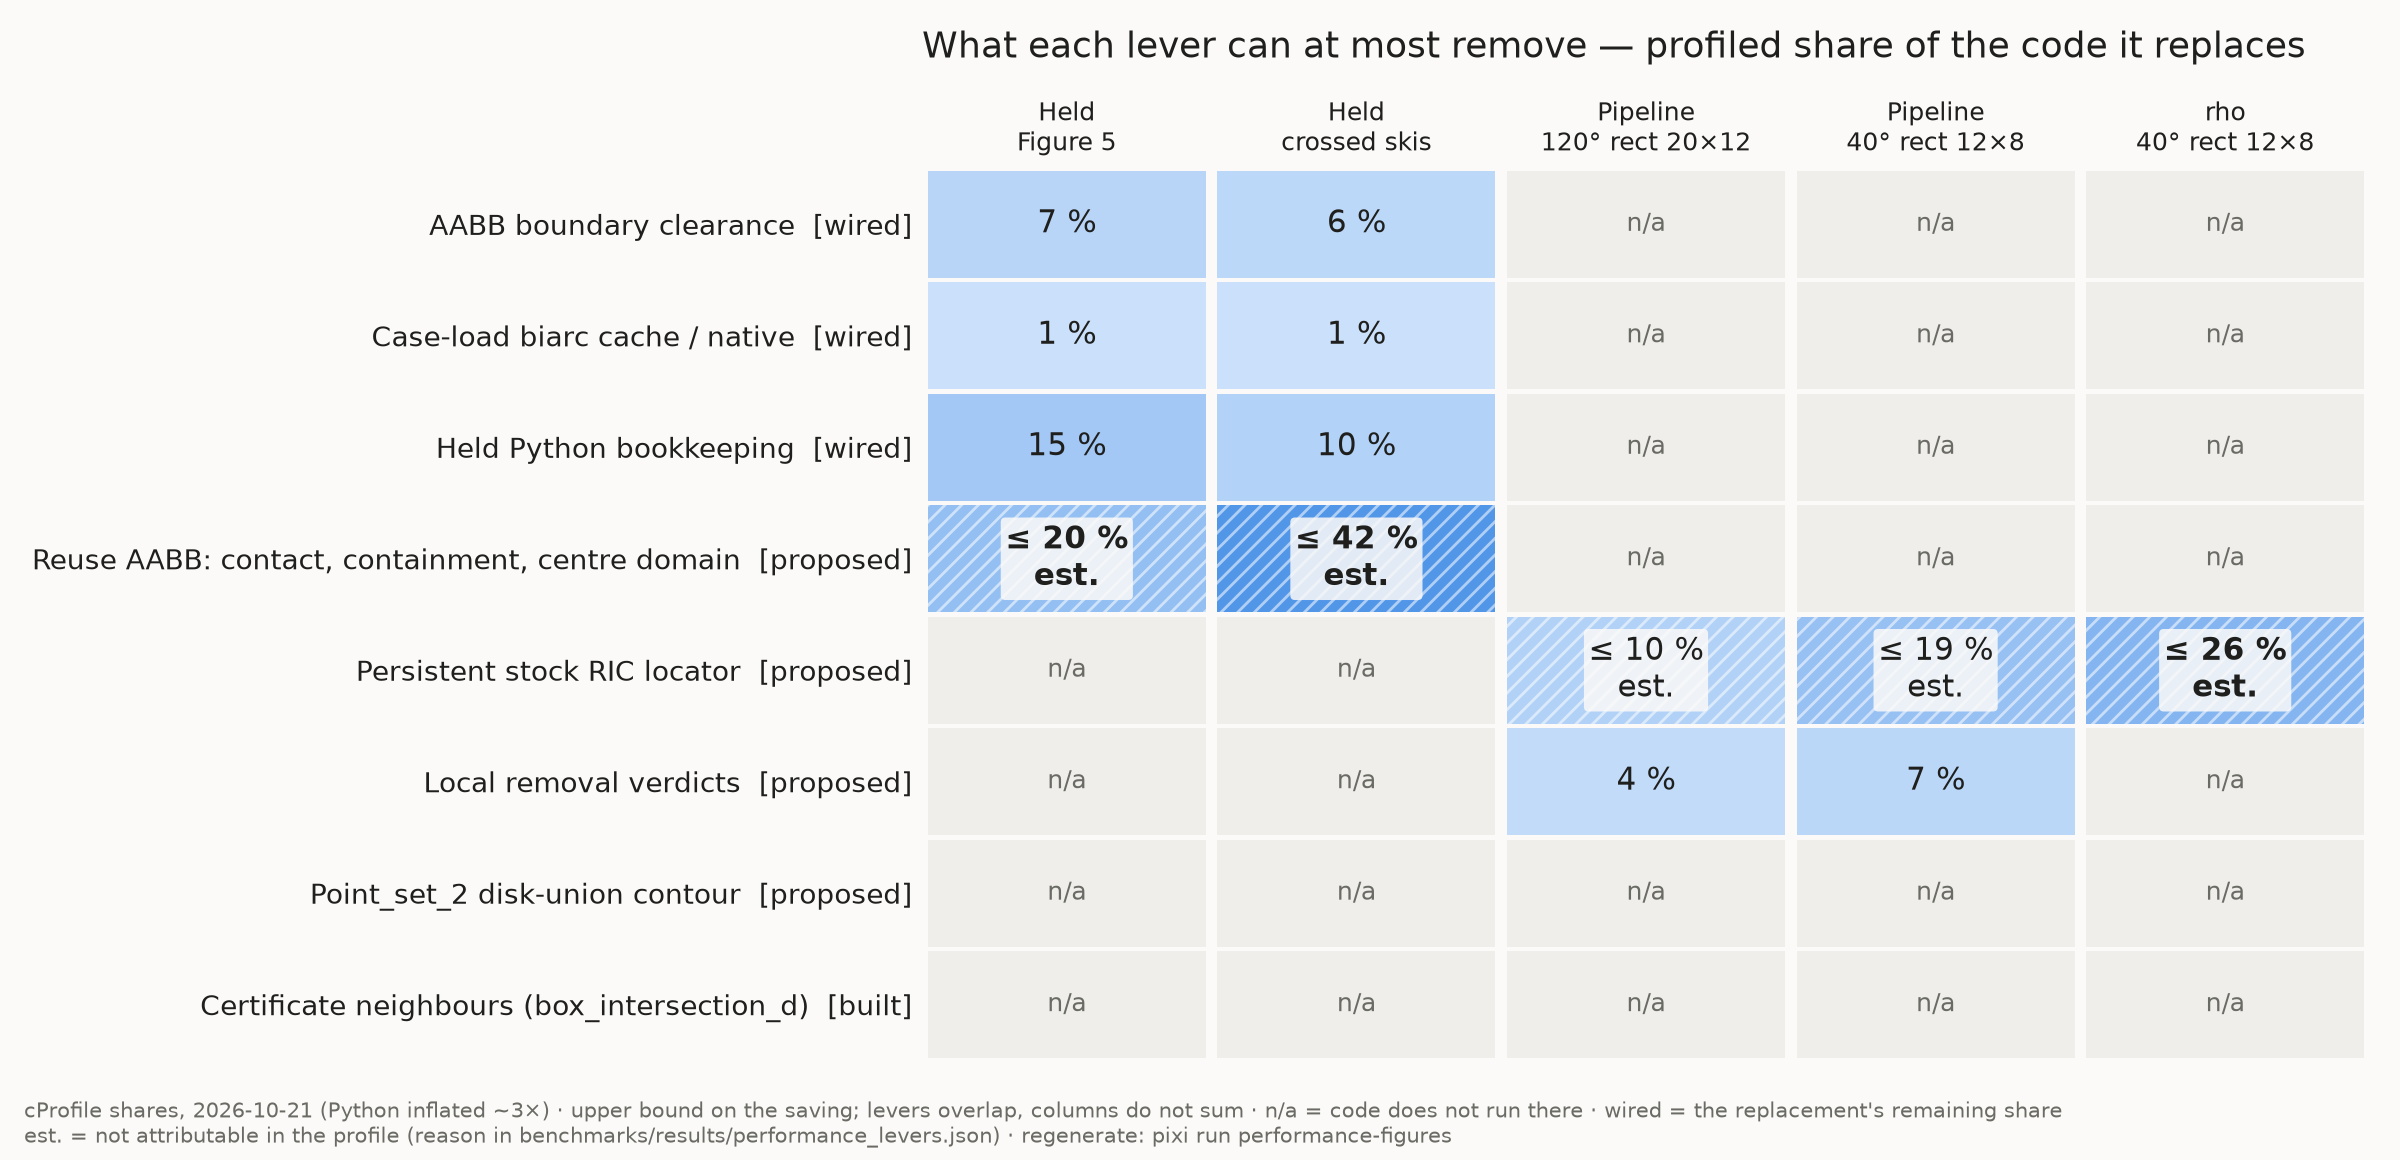
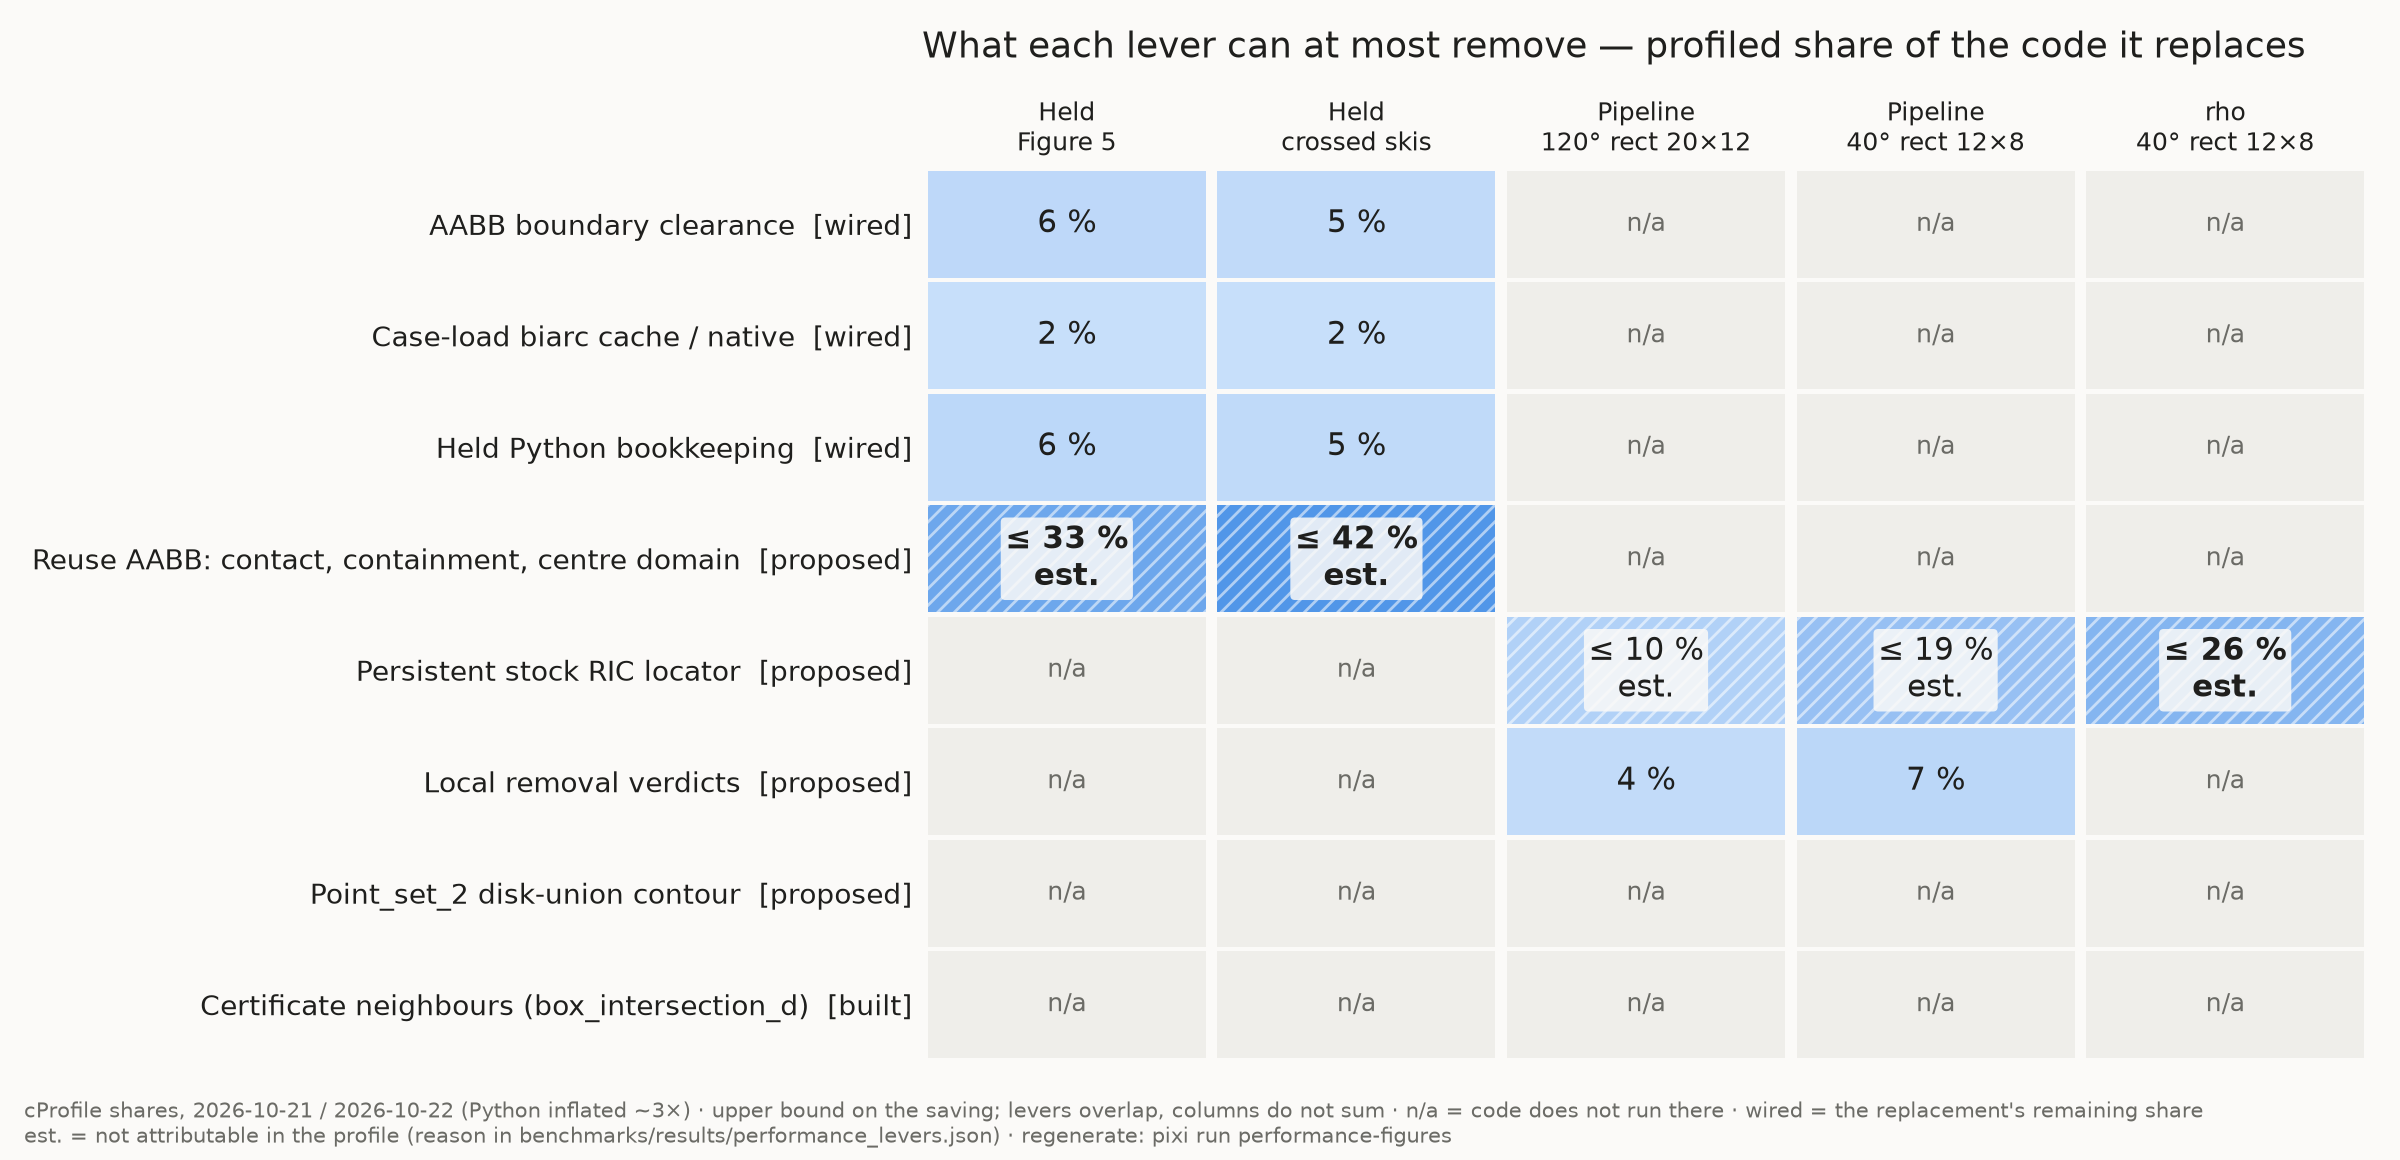
perf: regenerated performance records and heatmaps

Changed region(s): [[0.125, 0.931, 0.9062, 0.9621], [0.375, 0.3414, 0.5, 0.5276], [0.5312, 0.3724, 0.5938, 0.4034]]

diff --git a/benchmarks/results/performance_fig5_callpaths.md b/benchmarks/results/performance_fig5_callpaths.md
@@ -1,13 +1,12 @@
 <!-- Generated by tools.performance_callpaths from build/performance/held_figure5.prof. Do not edit; run `pixi run performance-figures`. -->
 
-cProfile of `benchmarks.held_toolpath_benchmark.figure5_refined`, one cold run in a fresh process, 2026-10-21, commit `e05674d3e4e6` (working tree with uncommitted changes); total profiled time 11.7 s.
+cProfile of `benchmarks.held_toolpath_benchmark.figure5_refined`, one cold run in a fresh process, 2026-10-22, commit `fa28023fd488` (working tree with uncommitted changes); total profiled time 5.7 s.
 
 | call path | cumulative (profiled) | calls |
 | --- | ---: | ---: |
-| `build_figure5_approximate_path` (initial placement) | 8.2 s | 1 |
-| → `build_distance_admissible_hypotheses` | 2.8 s | 7,075 |
-| → `_native_station_boundary` (station lookup; the first builds the batch) | 0.9 s | 7,075 |
-| → `_native_station_boundary_analyses` (one native AABB batch per guide) | 0.9 s | 1 |
-| → `distance_admissible_sites` (native kernel) → `_site` (hex → `Fraction`) | 0.5 s / 0.4 s | 1 / 31,742 |
-| `fractions.Fraction` arithmetic, whole profile | 1.3 s | 0.5 M operations, 1.2 M `gcd` |
+| `build_figure5_approximate_path` (initial placement) | 2.4 s | 1 |
+| → `build_guide_distance_admissible_hypotheses` (every station, one call per guide) | 1.0 s | 1 |
+| → `_native_station_boundary_analyses` (one native AABB batch per guide) | 0.3 s | 1 |
+| → `distance_admissible_sites` (native kernel) → `_site` (hex → integers; exact `Fraction`s on demand) | 0.3 s / 0.1 s | 1 / 31,742 |
+| `fractions.Fraction` arithmetic, whole profile | 0.2 s | 0.1 M operations, 0.2 M `gcd` |
 | `load_held_reference_case` (biarc reconstruction or its content-addressed cache read, outside the timed stage) | 0.1 s | 1 |
